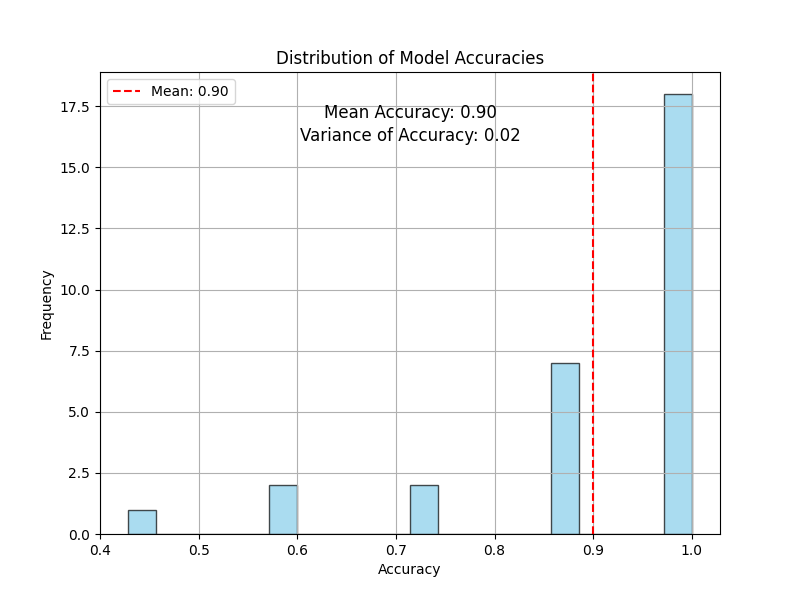
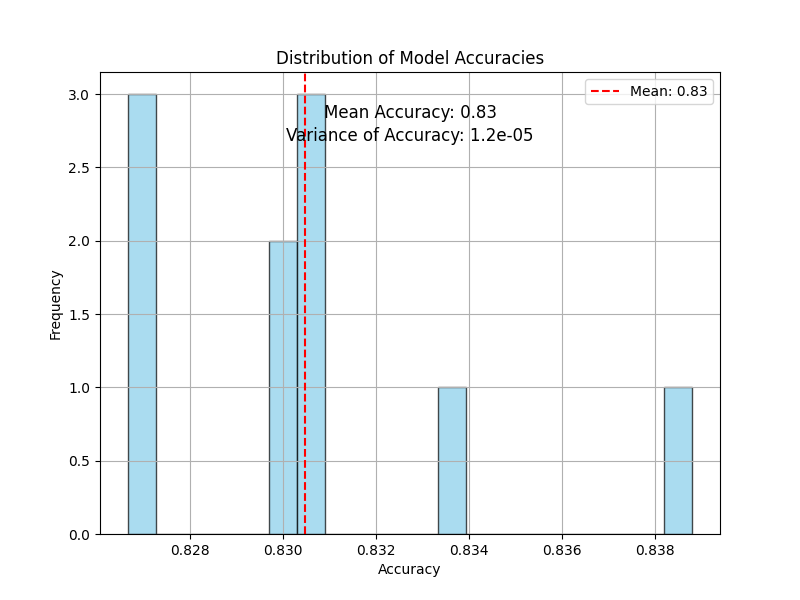
fix var in plot

diff --git a/plot_result.py b/plot_result.py
@@ -1,5 +1,7 @@
 import matplotlib.pyplot as plt
 import numpy as np
+from statistics import pvariance
+
 
 def plot_acc():
     # Data
@@ -39,14 +41,54 @@ def plot_acc():
 
 def plot_oracle_acc():
     # metrics = [{'model_id': 0, 'loss': 0.6969875154788034, 'Accuracy': 1.0, 'model_path': 'saves/Llama-2-7b-hf/reward_bench_train_Llama-2-7b-hf_max_entropy_check/max_entropy/oracle_0.safetensors'}, {'model_id': 1, 'loss': 0.5134088109459793, 'Accuracy': 1.0, 'model_path': 'saves/Llama-2-7b-hf/reward_bench_train_Llama-2-7b-hf_max_entropy_check/max_entropy/oracle_1.safetensors'}, {'model_id': 2, 'loss': 0.4989338775998668, 'Accuracy': 1.0, 'model_path': 'saves/Llama-2-7b-hf/reward_bench_train_Llama-2-7b-hf_max_entropy_check/max_entropy/oracle_2.safetensors'}, {'model_id': 3, 'loss': 0.4770105308608005, 'Accuracy': 1.0, 'model_path': 'saves/Llama-2-7b-hf/reward_bench_train_Llama-2-7b-hf_max_entropy_check/max_entropy/oracle_3.safetensors'}, {'model_id': 4, 'loss': 0.5097642797127104, 'Accuracy': 0.8571428571428571, 'model_path': 'saves/Llama-2-7b-hf/reward_bench_train_Llama-2-7b-hf_max_entropy_check/max_entropy/oracle_4.safetensors'}, {'model_id': 5, 'loss': 0.5076179802417755, 'Accuracy': 1.0, 'model_path': 'saves/Llama-2-7b-hf/reward_bench_train_Llama-2-7b-hf_max_entropy_check/max_entropy/oracle_5.safetensors'}, {'model_id': 6, 'loss': 0.4847733150971563, 'Accuracy': 0.7142857142857143, 'model_path': 'saves/Llama-2-7b-hf/reward_bench_train_Llama-2-7b-hf_max_entropy_check/max_entropy/oracle_6.safetensors'}, {'model_id': 7, 'loss': 0.5075322198763228, 'Accuracy': 1.0, 'model_path': 'saves/Llama-2-7b-hf/reward_bench_train_Llama-2-7b-hf_max_entropy_check/max_entropy/oracle_7.safetensors'}, {'model_id': 8, 'loss': 0.518027106920878, 'Accuracy': 1.0, 'model_path': 'saves/Llama-2-7b-hf/reward_bench_train_Llama-2-7b-hf_max_entropy_check/max_entropy/oracle_8.safetensors'}, {'model_id': 9, 'loss': 0.5117164905134001, 'Accuracy': 1.0, 'model_path': 'saves/Llama-2-7b-hf/reward_bench_train_Llama-2-7b-hf_max_entropy_check/max_entropy/oracle_9.safetensors'}, {'model_id': 10, 'loss': 0.4988821410296256, 'Accuracy': 1.0, 'model_path': 'saves/Llama-2-7b-hf/reward_bench_train_Llama-2-7b-hf_max_entropy_check/max_entropy/oracle_10.safetensors'}, {'model_id': 11, 'loss': 0.5087874319992567, 'Accuracy': 0.5714285714285714, 'model_path': 'saves/Llama-2-7b-hf/reward_bench_train_Llama-2-7b-hf_max_entropy_check/max_entropy/oracle_11.safetensors'}, {'model_id': 12, 'loss': 0.504003120618954, 'Accuracy': 0.8571428571428571, 'model_path': 'saves/Llama-2-7b-hf/reward_bench_train_Llama-2-7b-hf_max_entropy_check/max_entropy/oracle_12.safetensors'}, {'model_id': 13, 'loss': 0.4922906165583092, 'Accuracy': 0.8571428571428571, 'model_path': 'saves/Llama-2-7b-hf/reward_bench_train_Llama-2-7b-hf_max_entropy_check/max_entropy/oracle_13.safetensors'}, {'model_id': 14, 'loss': 0.5006412223242876, 'Accuracy': 1.0, 'model_path': 'saves/Llama-2-7b-hf/reward_bench_train_Llama-2-7b-hf_max_entropy_check/max_entropy/oracle_14.safetensors'}, {'model_id': 15, 'loss': 0.49743010391268816, 'Accuracy': 1.0, 'model_path': 'saves/Llama-2-7b-hf/reward_bench_train_Llama-2-7b-hf_max_entropy_check/max_entropy/oracle_15.safetensors'}, {'model_id': 16, 'loss': 0.49835661811786786, 'Accuracy': 0.5714285714285714, 'model_path': 'saves/Llama-2-7b-hf/reward_bench_train_Llama-2-7b-hf_max_entropy_check/max_entropy/oracle_16.safetensors'}, {'model_id': 17, 'loss': 0.5118268775312524, 'Accuracy': 0.8571428571428571, 'model_path': 'saves/Llama-2-7b-hf/reward_bench_train_Llama-2-7b-hf_max_entropy_check/max_entropy/oracle_17.safetensors'}, {'model_id': 18, 'loss': 0.48823955576670797, 'Accuracy': 1.0, 'model_path': 'saves/Llama-2-7b-hf/reward_bench_train_Llama-2-7b-hf_max_entropy_check/max_entropy/oracle_18.safetensors'}, {'model_id': 19, 'loss': 0.4786361414089538, 'Accuracy': 0.42857142857142855, 'model_path': 'saves/Llama-2-7b-hf/reward_bench_train_Llama-2-7b-hf_max_entropy_check/max_entropy/oracle_19.safetensors'}, {'model_id': 20, 'loss': 0.48317905450076387, 'Accuracy': 1.0, 'model_path': 'saves/Llama-2-7b-hf/reward_bench_train_Llama-2-7b-hf_max_entropy_check/max_entropy/oracle_20.safetensors'}, {'model_id': 21, 'loss': 0.47974638614738196, 'Accuracy': 0.8571428571428571, 'model_path': 'saves/Llama-2-7b-hf/reward_bench_train_Llama-2-7b-hf_max_entropy_check/max_entropy/oracle_21.safetensors'}, {'model_id': 22, 'loss': 0.4902948595975575, 'Accuracy': 1.0, 'model_path': 'saves/Llama-2-7b-hf/reward_bench_train_Llama-2-7b-hf_max_entropy_check/max_entropy/oracle_22.safetensors'}, {'model_id': 23, 'loss': 0.5014702499958507, 'Accuracy': 1.0, 'model_path': 'saves/Llama-2-7b-hf/reward_bench_train_Llama-2-7b-hf_max_entropy_check/max_entropy/oracle_23.safetensors'}, {'model_id': 24, 'loss': 0.5077021919321596, 'Accuracy': 0.8571428571428571, 'model_path': 'saves/Llama-2-7b-hf/reward_bench_train_Llama-2-7b-hf_max_entropy_check/max_entropy/oracle_24.safetensors'}, {'model_id': 25, 'loss': 0.518485146656371, 'Accuracy': 1.0, 'model_path': 'saves/Llama-2-7b-hf/reward_bench_train_Llama-2-7b-hf_max_entropy_check/max_entropy/oracle_25.safetensors'}, {'model_id': 26, 'loss': 0.516034486000998, 'Accuracy': 0.7142857142857143, 'model_path': 'saves/Llama-2-7b-hf/reward_bench_train_Llama-2-7b-hf_max_entropy_check/max_entropy/oracle_26.safetensors'}, {'model_id': 27, 'loss': 0.48904681807024436, 'Accuracy': 1.0, 'model_path': 'saves/Llama-2-7b-hf/reward_bench_train_Llama-2-7b-hf_max_entropy_check/max_entropy/oracle_27.safetensors'}, {'model_id': 28, 'loss': 0.5146132874907109, 'Accuracy': 1.0, 'model_path': 'saves/Llama-2-7b-hf/reward_bench_train_Llama-2-7b-hf_max_entropy_check/max_entropy/oracle_28.safetensors'}, {'model_id': 29, 'loss': 0.48006389747586165, 'Accuracy': 0.8571428571428571, 'model_path': 'saves/Llama-2-7b-hf/reward_bench_train_Llama-2-7b-hf_max_entropy_check/max_entropy/oracle_29.safetensors'}]
+    metrics = [
+        {
+            "model_id": 0,
+            "Accuracy": 0.8270130304042767
+        },
+        {
+            "model_id": 1,
+            "Accuracy": 0.8267624457066488
+        },
+        {
+            "model_id": 2,
+            "Accuracy": 0.8300200467758102
+        },
+        {
+            "model_id": 3,
+            "Accuracy": 0.8305212161710658
+        },
+        {
+            "model_id": 4,
+            "Accuracy": 0.830688272636151
+        },
+        {
+            "model_id": 5,
+            "Accuracy": 0.829852990310725
+        },
+        {
+            "model_id": 6,
+            "Accuracy": 0.8387905111927831
+        },
+        {
+            "model_id": 7,
+            "Accuracy": 0.8266789174741063
+        },
+        {
+            "model_id": 8,
+            "Accuracy": 0.8337788172402272
+        },
+        {
+            "model_id": 9,
+            "Accuracy": 0.8307718008686936
+        }
+    ]
     # Extract accuracy values from the metrics
-    # accuracies = [metric["Accuracy"] for metric in metrics]
-    
-    accuracies = [0.5971, ]
+    accuracies = [metric["Accuracy"] for metric in metrics]
     
     # Calculate mean and variance of accuracy
     mean_accuracy = np.mean(accuracies)
-    variance_accuracy = np.var(accuracies)
+    variance_accuracy = pvariance(accuracies)
 
     # Plot the image
     plt.figure(figsize=(8, 6))
@@ -60,14 +102,14 @@ def plot_oracle_acc():
 
     # Annotate mean and variance on the plot
     plt.annotate(f'Mean Accuracy: {mean_accuracy:.2f}', xy=(0.5, 0.9), xycoords='axes fraction', ha='center', fontsize=12)
-    plt.annotate(f'Variance of Accuracy: {variance_accuracy:.2f}', xy=(0.5, 0.85), xycoords='axes fraction', ha='center', fontsize=12)
+    plt.annotate(f'Variance of Accuracy: {variance_accuracy:.1e}', xy=(0.5, 0.85), xycoords='axes fraction', ha='center', fontsize=12)
 
 
     plt.savefig('images/accuracy_histogram.png')
     plt.show()
 
     print(f"Mean Accuracy: {mean_accuracy:.2f}")
-    print(f"Variance of Accuracy: {variance_accuracy:.2f}")
+    print(f"Variance of Accuracy: {variance_accuracy:.1e}")
 
 
 
@@ -97,21 +139,23 @@ def plot_model_performance(model_dict):
     plt.show()
 
 def main():
-    model_data = {
-        "mistralai/Mistral-7B-v0.1": 0.66,
-        "mistralai/Mistral-7B-Instruct-v0.2": 0.64,
-        "google/gemma-7b": 0.74,
-        "google/gemma-7b-it": 0.77,
-        "meta-llama/Llama-2-7b-hf": 0.8,
-        "meta-llama/Llama-2-7b-chat-hf": 0.83,
-        "meta-llama/Llama-2-13b-hf": 0.84,
-        "meta-llama/Llama-2-13b-chat-hf": 0.86,
-        "meta-llama/Meta-Llama-3-8B": 0.83,
-        "meta-llama/Meta-Llama-3-8B-Instruct": 0.88
-    }
+    # model_data = {
+    #     "mistralai/Mistral-7B-v0.1": 0.66,
+    #     "mistralai/Mistral-7B-Instruct-v0.2": 0.64,
+    #     "google/gemma-7b": 0.74,
+    #     "google/gemma-7b-it": 0.77,
+    #     "meta-llama/Llama-2-7b-hf": 0.8,
+    #     "meta-llama/Llama-2-7b-chat-hf": 0.83,
+    #     "meta-llama/Llama-2-13b-hf": 0.84,
+    #     "meta-llama/Llama-2-13b-chat-hf": 0.86,
+    #     "meta-llama/Meta-Llama-3-8B": 0.83,
+    #     "meta-llama/Meta-Llama-3-8B-Instruct": 0.88
+    # }
 
-    # Plot model performance
-    plot_model_performance(model_data)
+    # # Plot model performance
+    # plot_model_performance(model_data)
+    # ==============================================
+    plot_oracle_acc()
 
 if __name__ == "__main__":
     main()

diff --git a/src/llmtuner/train/rm/oracle.py b/src/llmtuner/train/rm/oracle.py
@@ -25,19 +25,12 @@ from copy import deepcopy
 from torch import nn
 import torch
 import torch.nn.functional as F
-import torch.optim.lr_scheduler as lr_scheduler
-from torch.utils.data import DataLoader
-from torch.nn.utils.rnn import pad_sequence
-
-# import deepspeed
-
-
-from safetensors.torch import save_file, load_file
-
 from matplotlib import pyplot as plt
 from tqdm import tqdm
 from collections import Counter
 import json
+from statistics import pvariance
+
 
 
 def plot_oracle_acc(metrics, output_dir, model_name):
@@ -46,7 +39,8 @@ def plot_oracle_acc(metrics, output_dir, model_name):
 
     # Calculate mean and variance of accuracy
     mean_accuracy = np.mean(accuracies)
-    variance_accuracy = np.var(accuracies)
+    variance_accuracy = pvariance(accuracies)
+
 
     # Plot the image
     plt.figure(figsize=(8, 6))
@@ -60,12 +54,12 @@ def plot_oracle_acc(metrics, output_dir, model_name):
 
     # Annotate mean and variance on the plot
     plt.annotate(f'Mean Accuracy: {mean_accuracy:.2f}', xy=(0.5, 0.9), xycoords='axes fraction', ha='center', fontsize=12)
-    plt.annotate(f'Variance of Accuracy: {variance_accuracy:.2f}', xy=(0.5, 0.85), xycoords='axes fraction', ha='center', fontsize=12)
+    plt.annotate(f'Variance of Accuracy: {variance_accuracy:.2e}', xy=(0.5, 0.85), xycoords='axes fraction', ha='center', fontsize=12)
 
     plt.savefig(f'{output_dir}/accuracy_histogram.png')
 
     print(f"Mean Accuracy: {mean_accuracy:.2f}")
-    print(f"Variance of Accuracy: {variance_accuracy:.2f}")
+    print(f"Variance of Accuracy: {variance_accuracy:.2e}")
 
 class Oracle(LLMStrategy):
     def __init__(

diff --git a/src/llmtuner/train/rm/strategy.py b/src/llmtuner/train/rm/strategy.py
@@ -422,7 +422,6 @@ class LLMStrategy:
             save_to_pkl(vector_output, f"{filename}.pkl")
             train_df = Dataset.from_dict(vector_output)
 
-
         return train_df
 
     def get_training_dataset(self, is_override):
